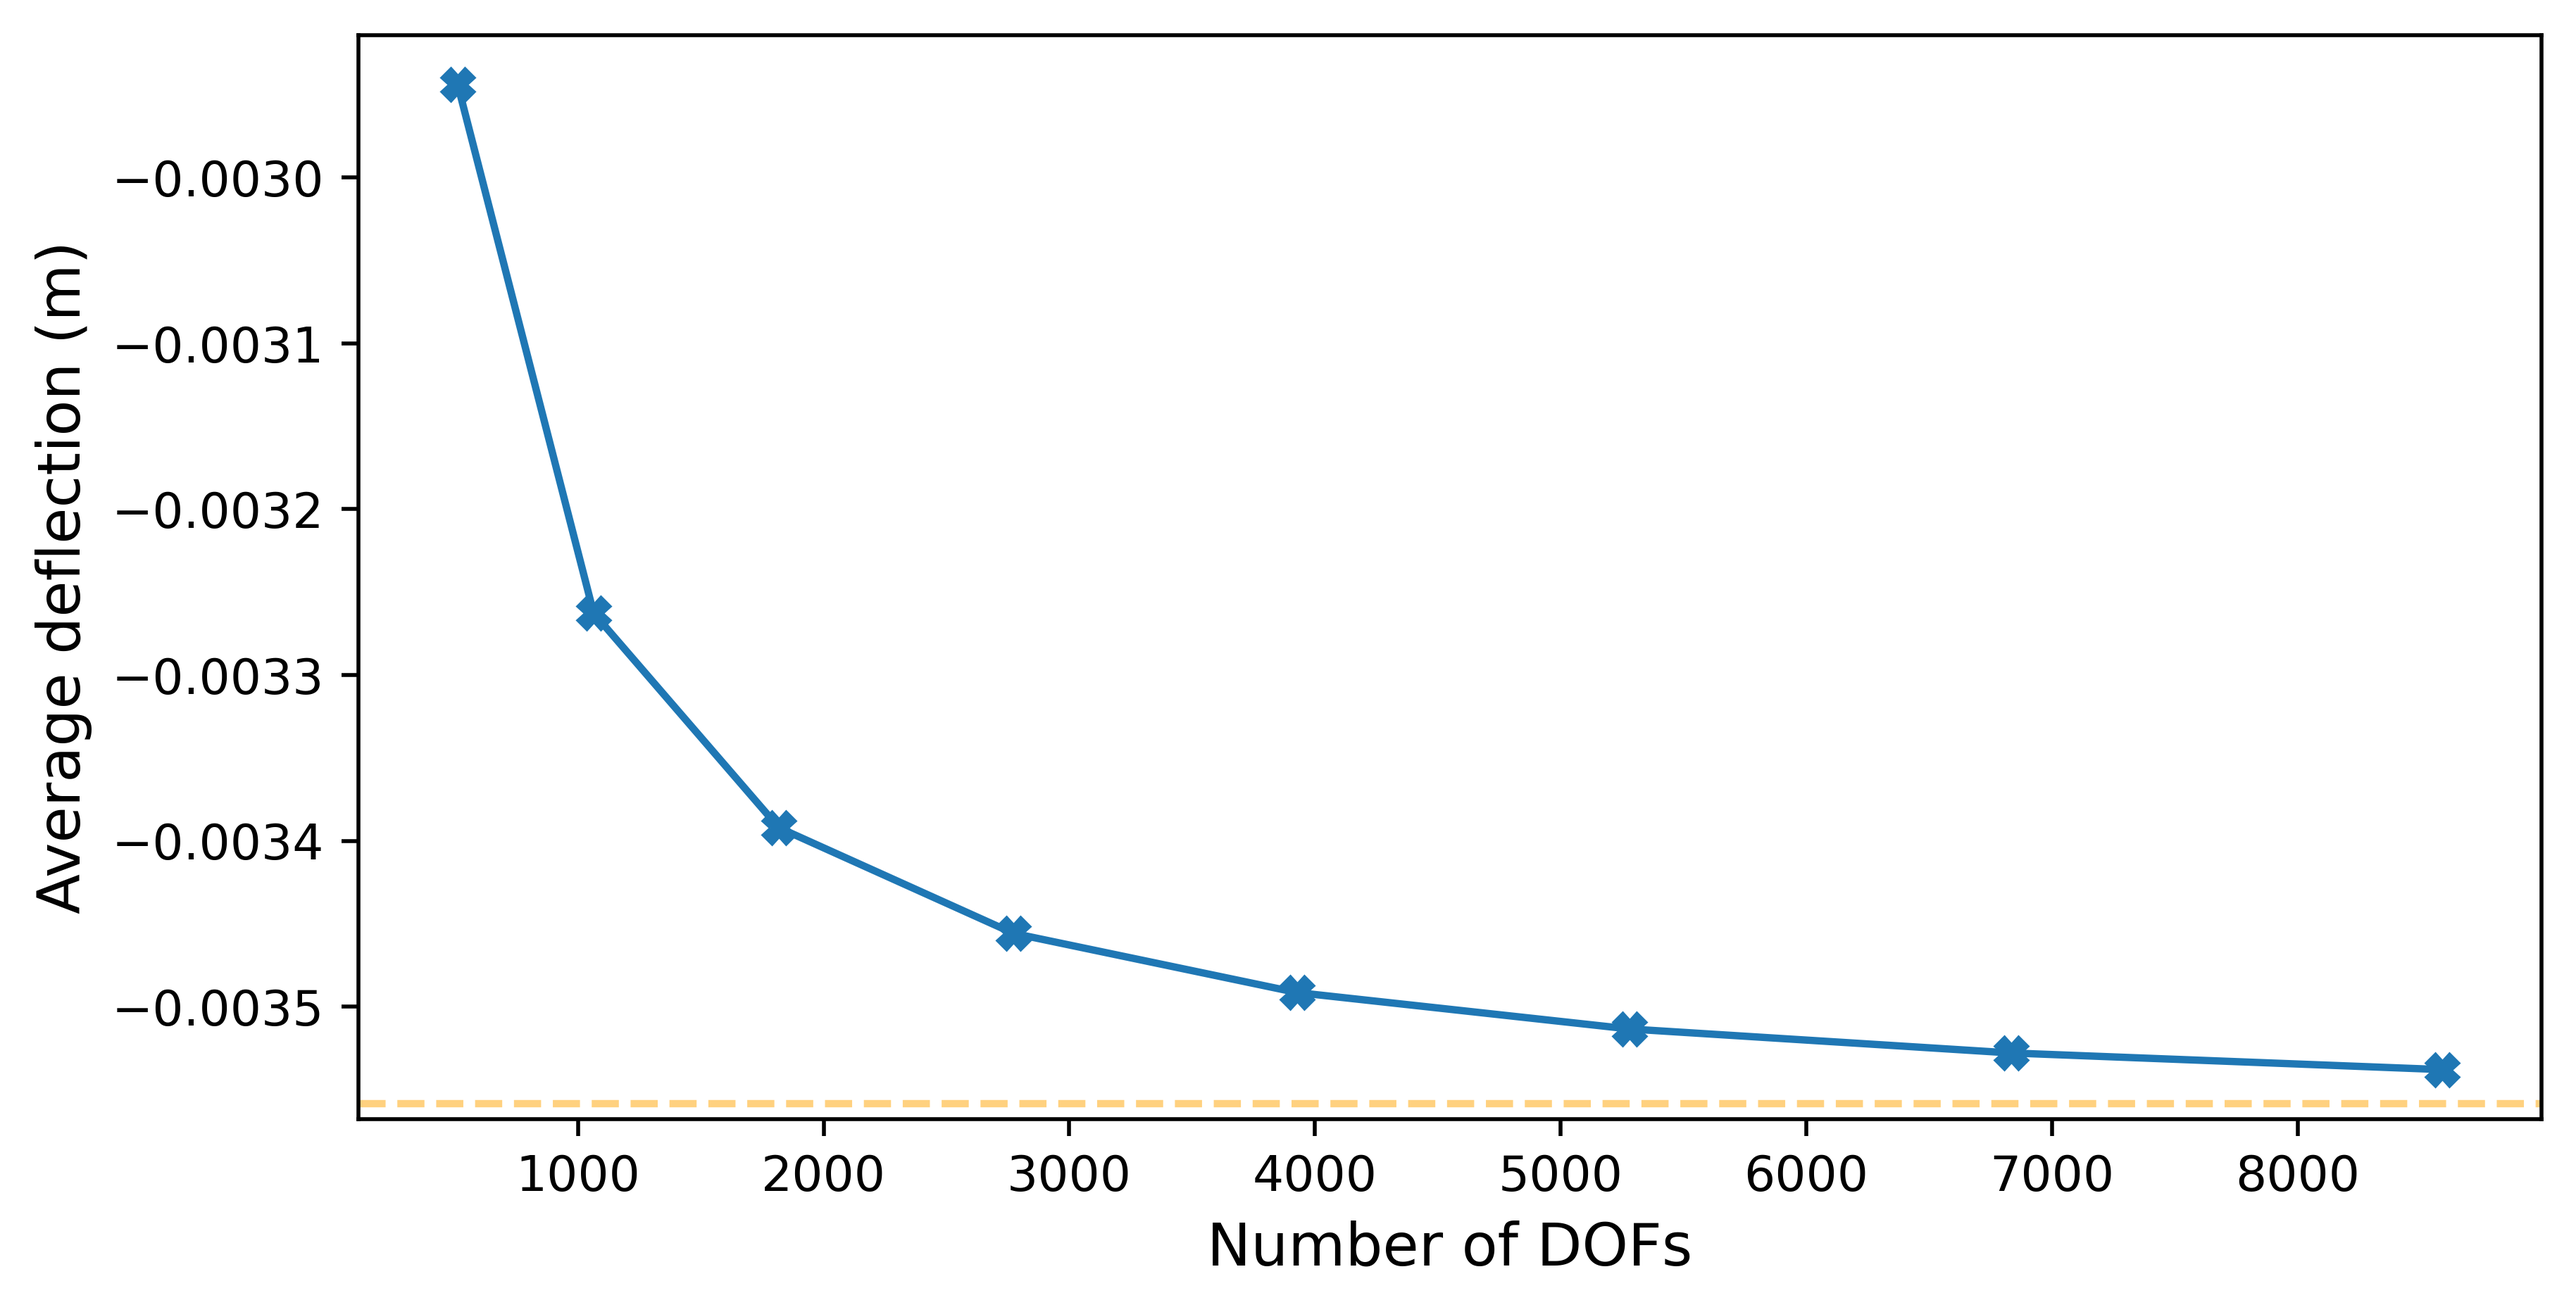
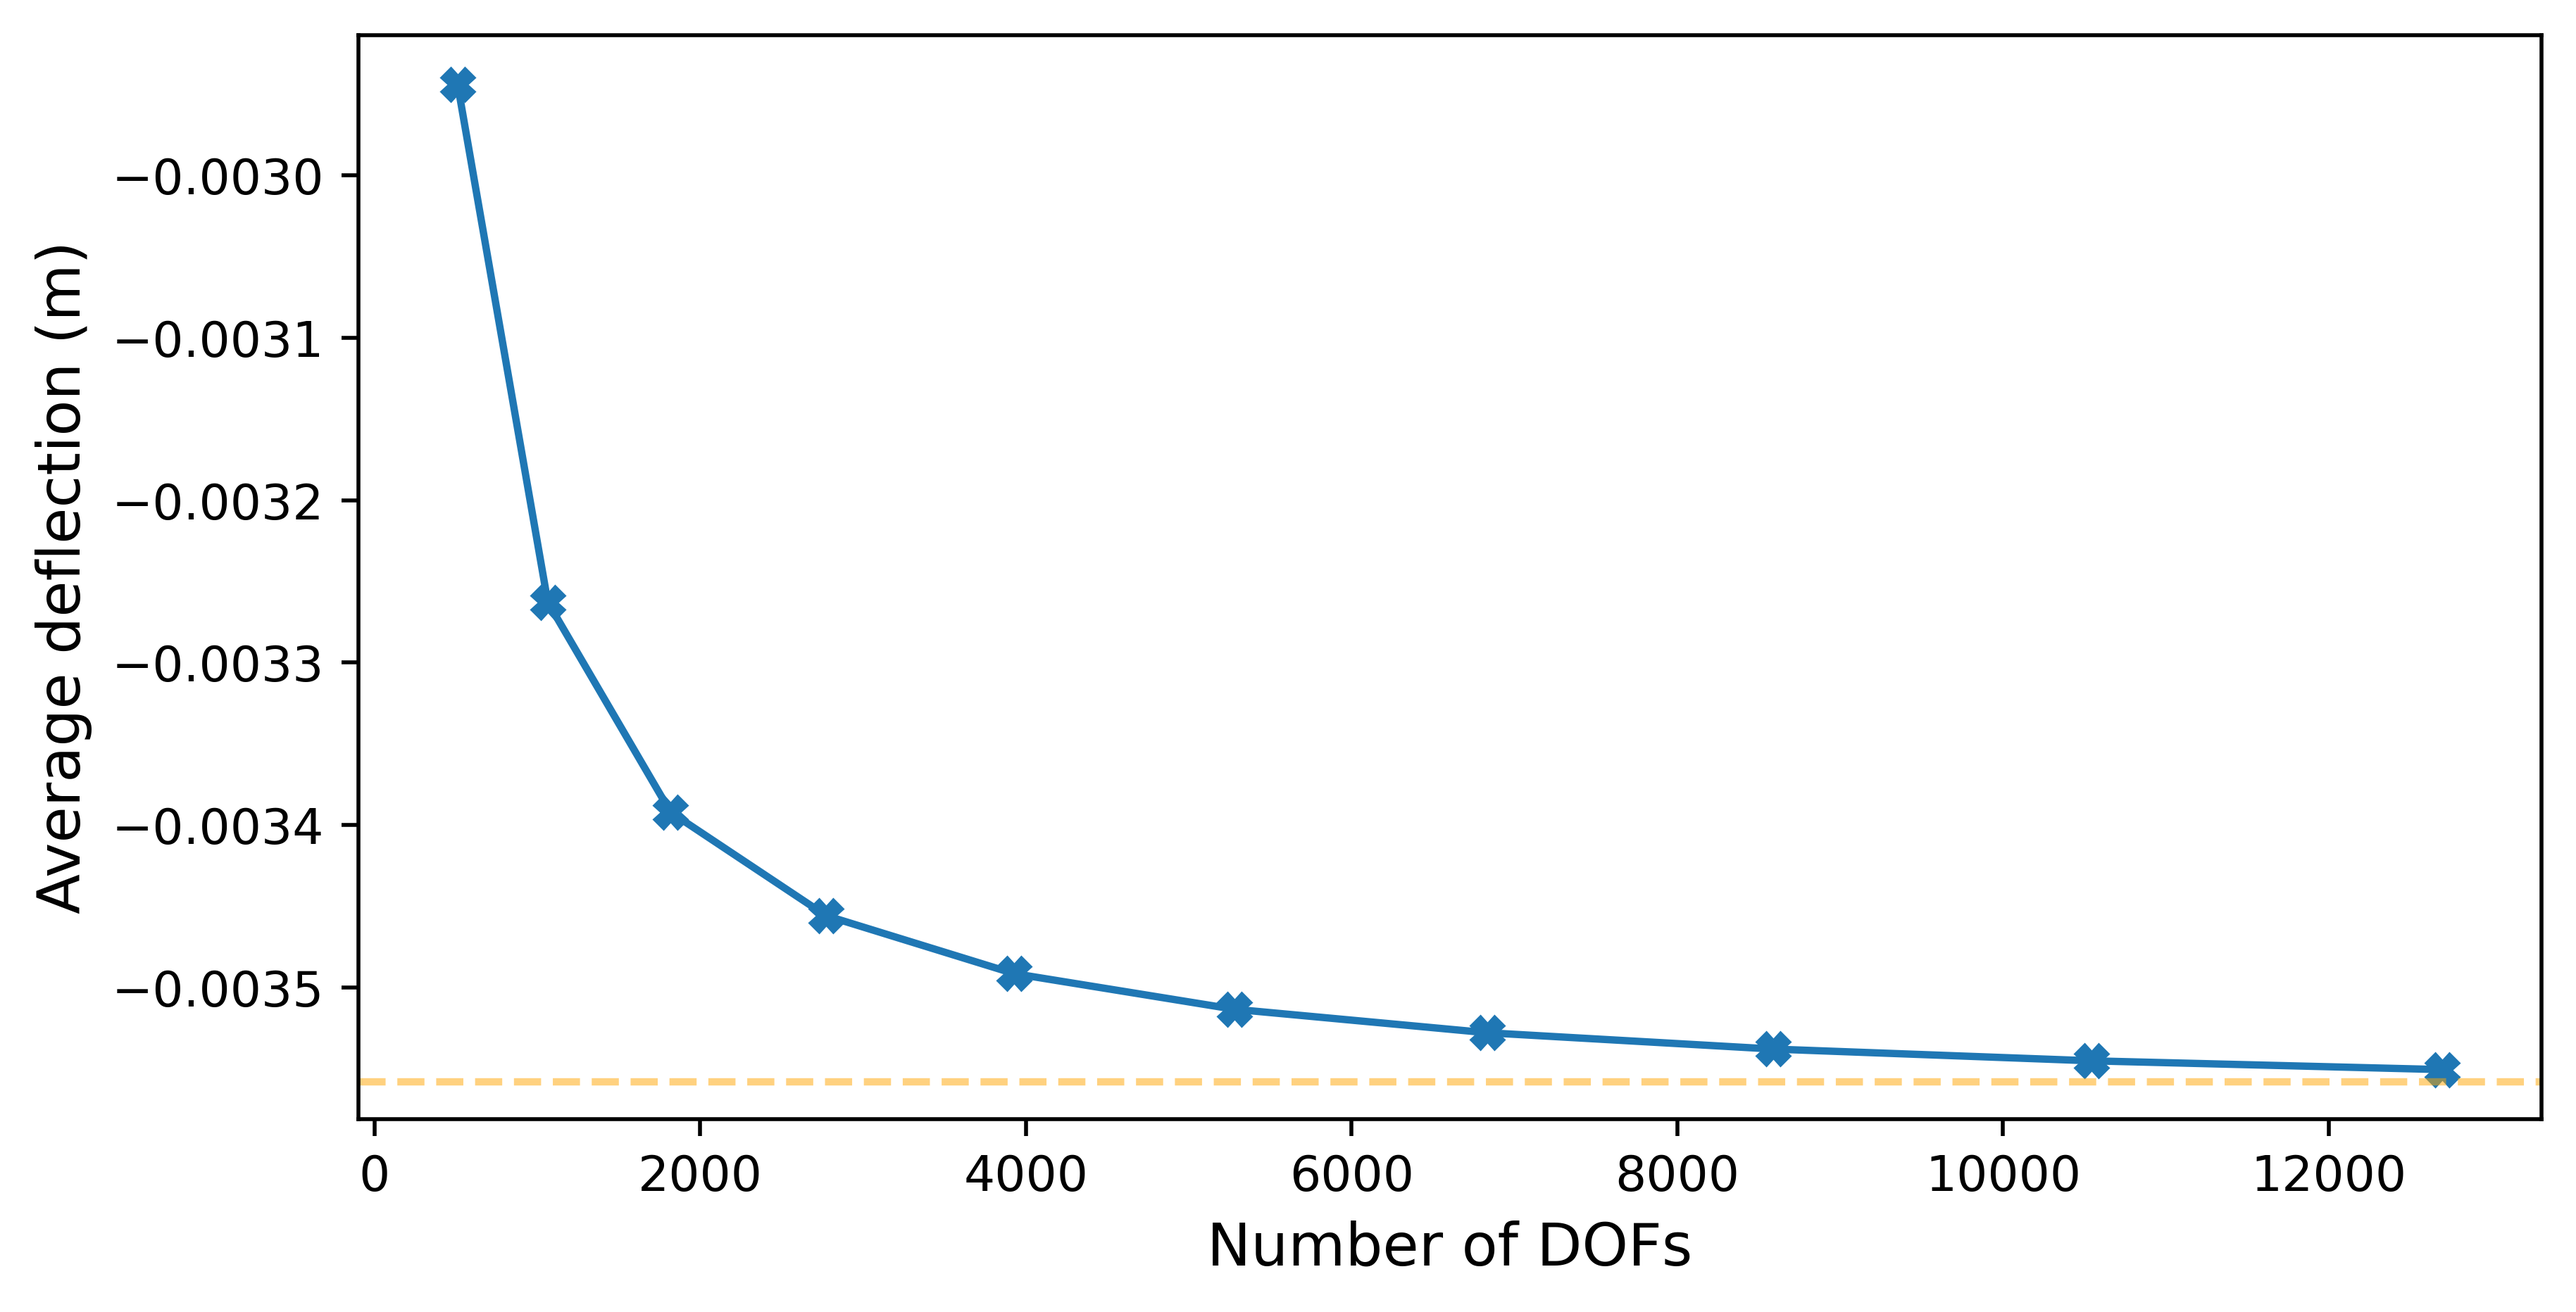
.

diff --git a/MHA021/CA2/CA2.py b/MHA021/CA2/CA2.py
@@ -232,10 +232,12 @@ def task12(element_type='cst', nelx=50, nely=10, plot_n_print=False):
     right_max_norm_stress = np.max(np.abs(right_edge_stresses[:, 0]))
     print(f'maximum normal stress at right edge: {right_max_norm_stress:.3e} Pa')
     
+    print(f'\n number of DOFs: {ndofs}')
     print(f'\nComparison with analytical solution: \n Deflection: {avg_deflection:.3e} m vs {delta_analytic:.3e} m \n Stress: {right_max_norm_stress:.3e} Pa vs {sigma_analytic:.3e} Pa')
     fraction_displacement = avg_deflection / delta_analytic
+    fraction_stress = right_max_norm_stress / sigma_analytic
 
-    return avg_deflection, right_max_norm_stress, ndofs, fraction_displacement
+    return avg_deflection, right_max_norm_stress, ndofs, fraction_displacement, fraction_stress
 
 task12(element_type='cst', nelx=40, nely=8, plot_n_print=True)
 
@@ -245,7 +247,7 @@ task12(element_type='cst', nelx=40, nely=8, plot_n_print=True)
 #---------------------------------------------------------------------------------------------------
 new_subtask('Task 1 - Convergence')
 
-nelx_list = np.arange(50, 250, 25)
+nelx_list = np.arange(50, 300, 25)
 nely_list = [int(i * (H / W)) for i in nelx_list]
 print(nelx_list)
 print(nely_list)
@@ -254,12 +256,21 @@ avg_deflection_list = []
 max_norm_stress_list = []
 ndofs_list = []
 fraction_displacement_list = []
+fraction_stress_list = []
 for i in range(len(nelx_list)):
-    avg_deflection, right_max_norm_stress, ndofs, fraction_displacement = task12(element_type='cst', nelx=nelx_list[i], nely=nely_list[i])
+    avg_deflection, right_max_norm_stress, ndofs, fraction_displacement, fraction_stress = task12(element_type='cst', nelx=nelx_list[i], nely=nely_list[i])
     avg_deflection_list.append(avg_deflection)
     max_norm_stress_list.append(right_max_norm_stress)
     ndofs_list.append(ndofs)
     fraction_displacement_list.append(fraction_displacement)
+    fraction_stress_list.append(fraction_stress)
+    
+    if i != 0:
+        if 1 - fraction_displacement_list[i] / fraction_displacement_list[i-1] <= 0.01:
+            print(f'Deflection convergence for NDOF = {ndofs[i]}')
+        
+        if 1 - fraction_stress_list[i] / fraction_stress_list[i-1] <= 0.01:
+            print(f'Deflection convergence for NDOF = {ndofs[i]}')
 
     plt.figure()
     plt.plot(ndofs_list, avg_deflection_list, 'X-')
@@ -284,7 +295,14 @@ for i in range(len(nelx_list)):
     plt.ylabel('Maximum normal stress (Pa)')
     sfig('Maximum normal stress vs Number of DOFs.png')
     plt.show()
-#%%
+    
+    plt.figure()
+    plt.plot(ndofs_list, fraction_stress_list, 'o-', color='black')
+    plt.axhline(1, color='orange', linestyle='--', alpha=0.5)
+    plt.xlabel('Number of DOFs')
+    plt.ylabel('Stress fraction: Numerical / Analytical')
+    sfig('Stress fraction vs Number of DOFs.png')
+    plt.show()
 
 #%%
 ####################################################################################################
